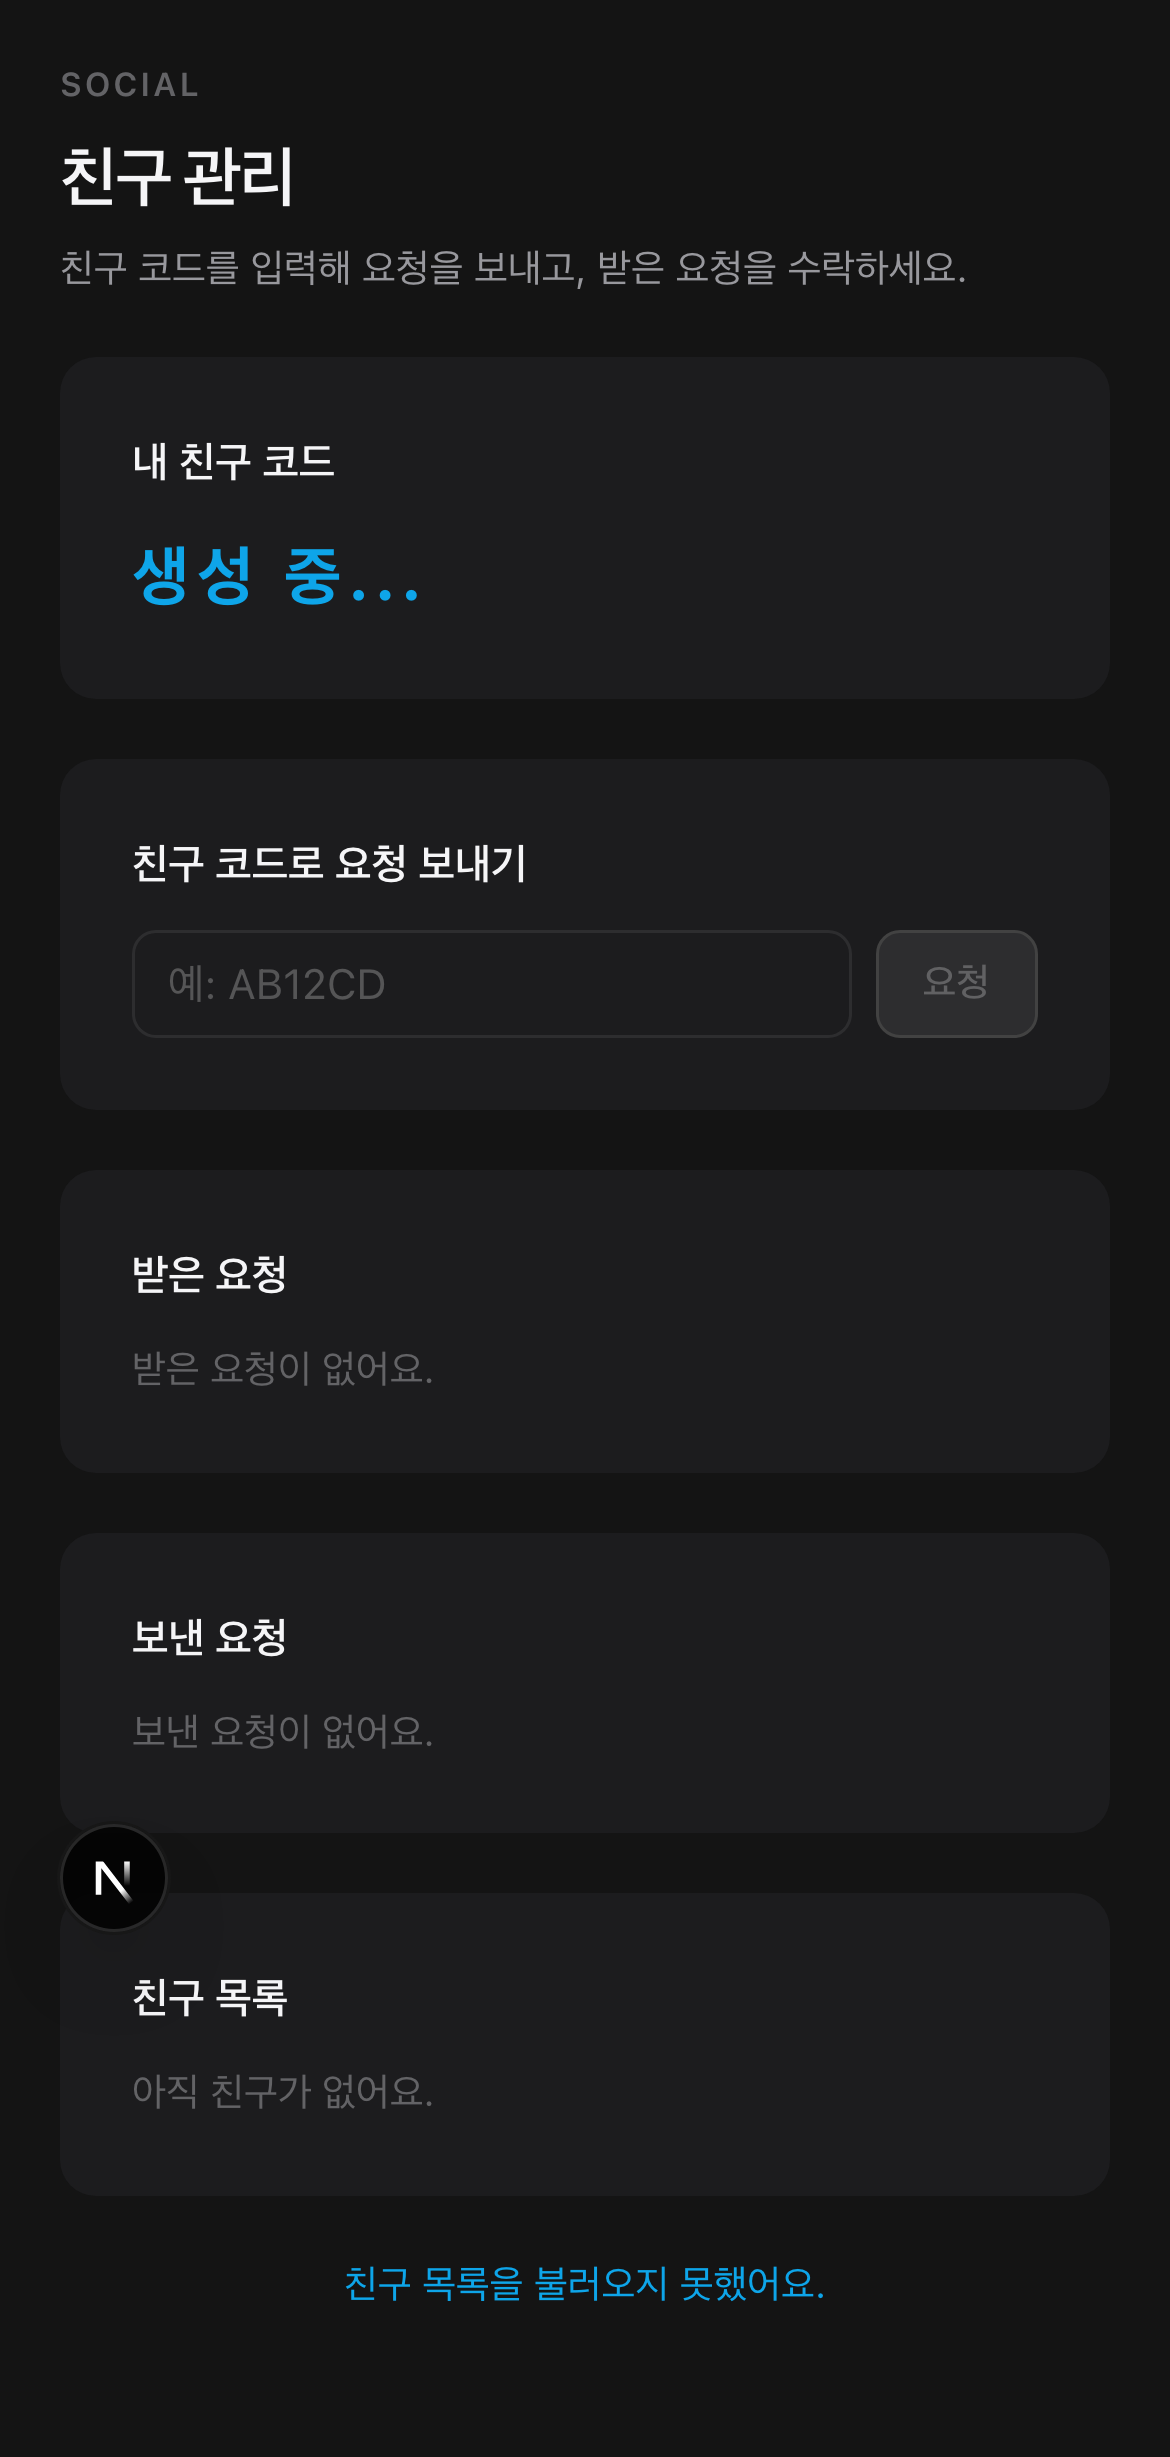
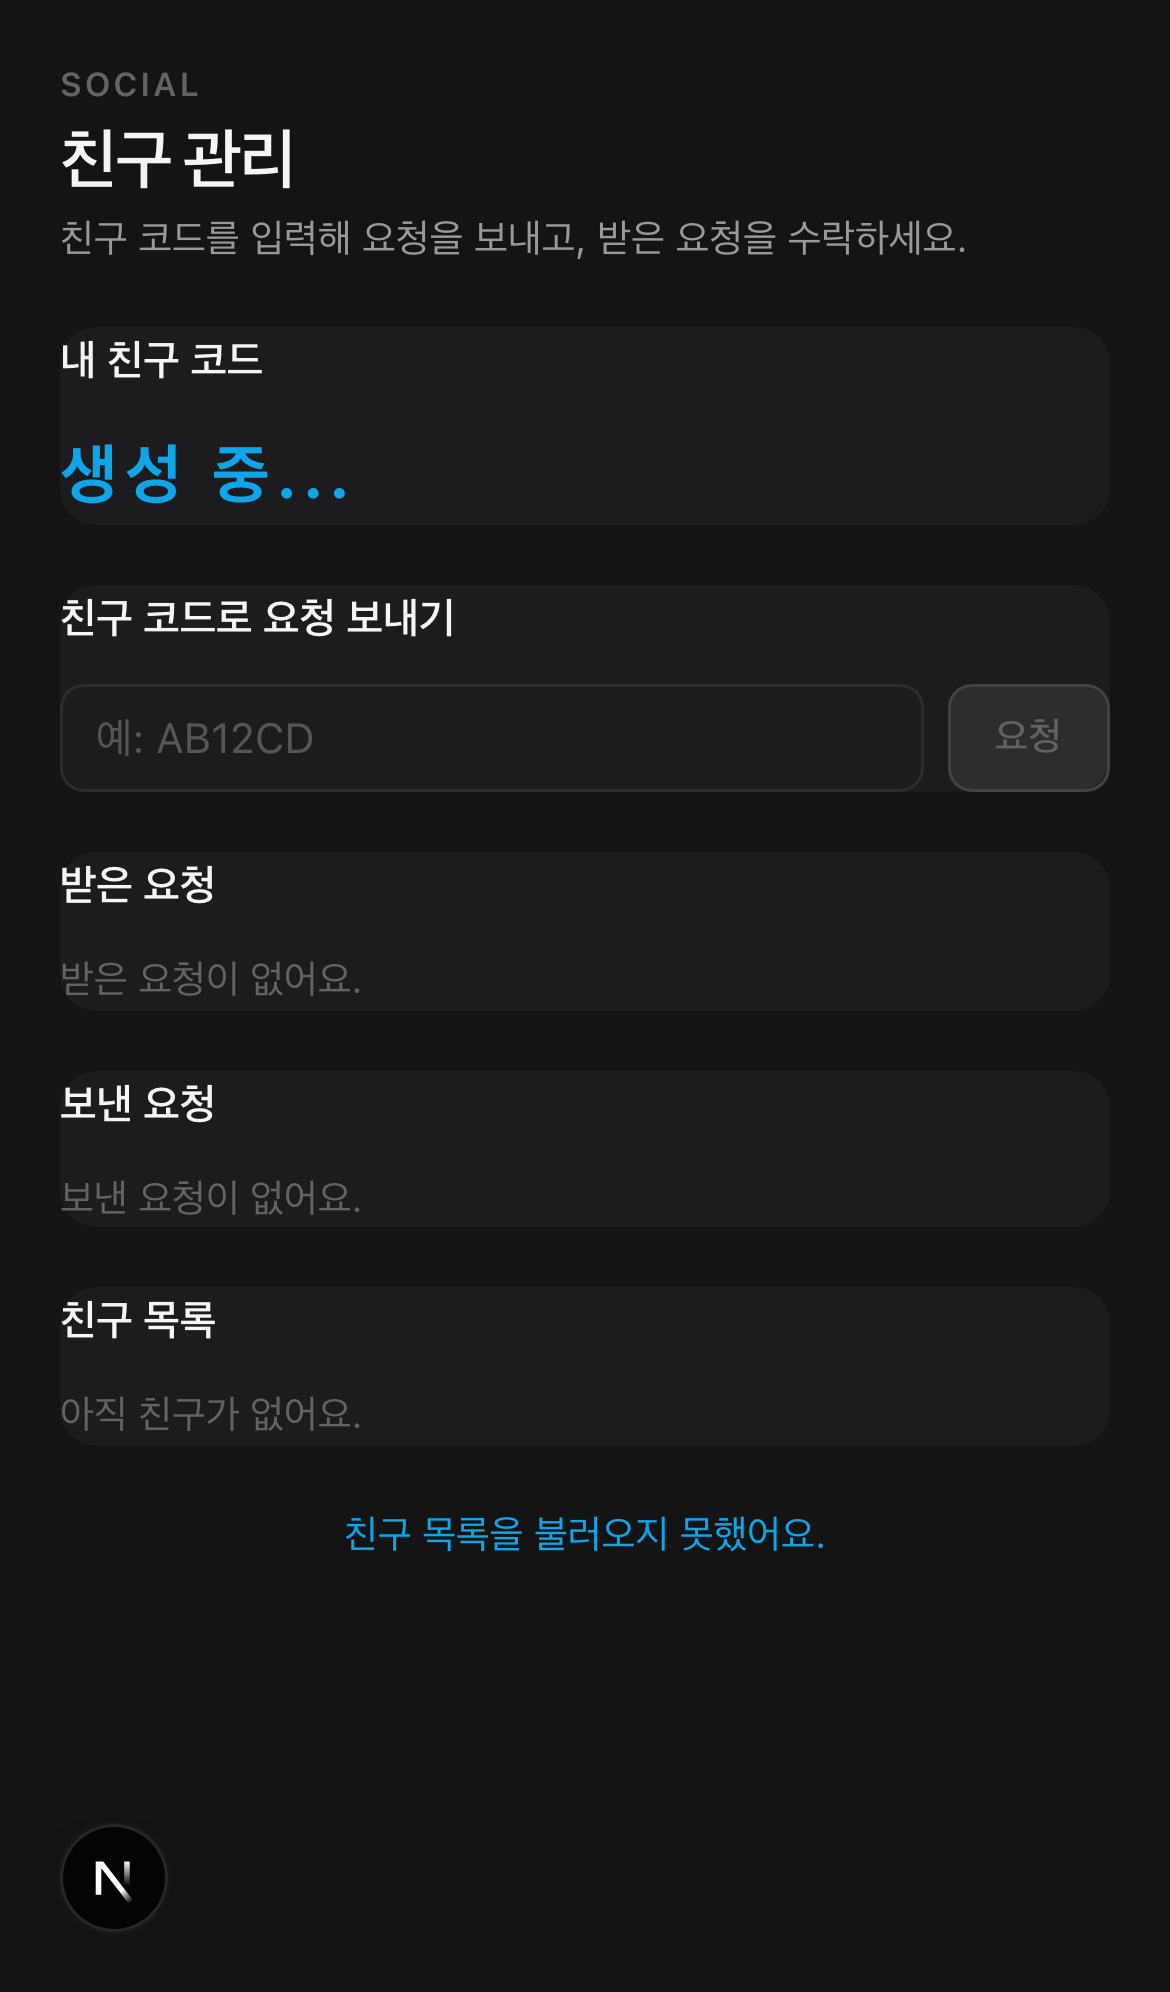
refactor: 내부 여백 반감 — card 24→12px, item 16/18→8/9px

diff --git a/apps/web/src/components/ui/design-system.css b/apps/web/src/components/ui/design-system.css
@@ -97,10 +97,10 @@
   --ds-space-page-bottom: 48px;
   --ds-space-section-gap: 20px;
   --ds-space-card-gap: 12px;
-  --ds-space-card-x: 24px;
-  --ds-space-card-y: 24px;
-  --ds-space-item-x: 18px;     /* 내부 아이템 좌우 */
-  --ds-space-item-y: 16px;     /* 내부 아이템 상하 */
+  --ds-space-card-x: 12px;
+  --ds-space-card-y: 12px;
+  --ds-space-item-x: 9px;      /* 내부 아이템 좌우 */
+  --ds-space-item-y: 8px;      /* 내부 아이템 상하 */
   --ds-space-inline: 8px;
   --ds-space-tight: 6px;
 
